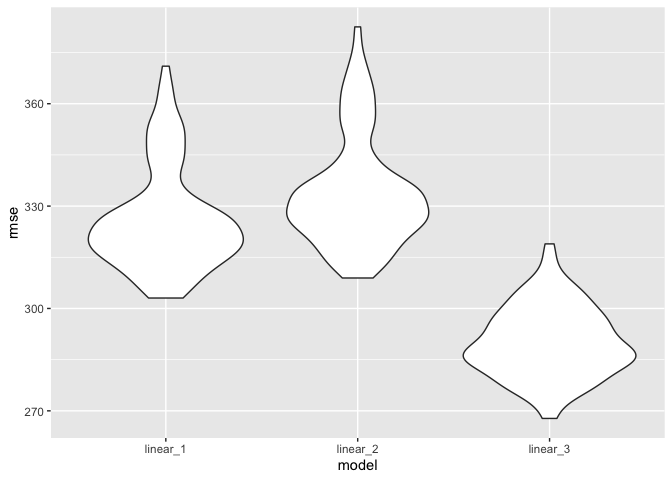
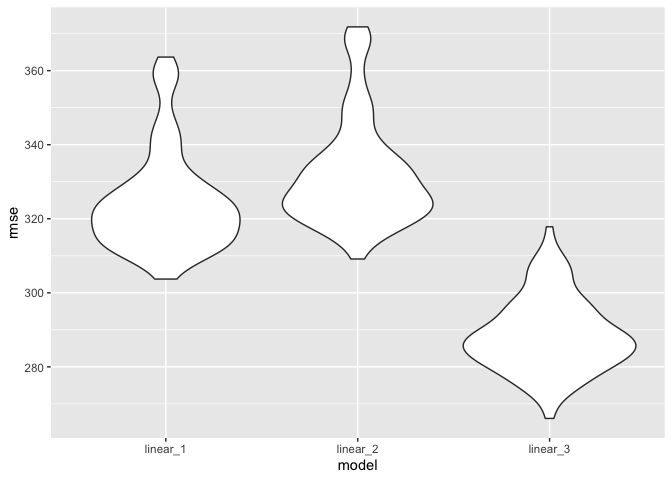
done

diff --git a/p8105_hw6_cx2227.md b/p8105_hw6_cx2227.md
@@ -7,16 +7,7 @@ Chuyue Xiang
 
 ``` r
 birthweight = read_csv("./data/birthweight.csv")
-```
 
-    ## Parsed with column specification:
-    ## cols(
-    ##   .default = col_double()
-    ## )
-
-    ## See spec(...) for full column specifications.
-
-``` r
 str(birthweight)
 ```
 
@@ -200,20 +191,14 @@ cv_birthweight %>%
 
 ![](p8105_hw6_cx2227_files/figure-gfm/unnamed-chunk-1-4.png)<!-- -->
 
-\`\`\`
-
-  - This model is built by selecting some factors I thought would be
-    attrbutng to the weight of the baby, for example: the length of the
-    baby, mother’s pre-pregnancy BMI, mother’s age at menarche, etc…
-
-  - However, through the chart, there is no clear interaction, so this
-    model proposed is not effective.
+  - from the voilin chart, the third model has the smallestt rmse which
+    will has the best prediction on the baby’s weight.
 
 ## Problem 2
 
-data import
-
 ``` r
+#data import
+
 weather_df = 
   rnoaa::meteo_pull_monitors(
     c("USW00094728"),
@@ -240,3 +225,74 @@ weather_df =
     ## file last updated:  2019-09-26 10:25:19
 
     ## file min/max dates: 1869-01-01 / 2019-09-30
+
+``` r
+weather_df %>% 
+  modelr::bootstrap(n = 5000) %>% 
+  mutate(
+    models = map(strap, ~lm(tmax ~ tmin, data = .x)),
+    results = map(models, broom::glance)) %>% 
+  select(-strap, -models) %>% 
+  unnest(results) %>% 
+  select(.id,r.squared) %>% 
+  ggplot(aes(x = r.squared)) + geom_density()
+```
+
+![](p8105_hw6_cx2227_files/figure-gfm/unnamed-chunk-2-1.png)<!-- -->
+
+``` r
+weather_df %>% 
+  modelr::bootstrap(n = 5000) %>% 
+  mutate(
+    models = map(strap, ~lm(tmax ~ tmin, data = .x)),
+    results = map(models, broom::tidy)) %>% 
+  select(-strap, -models) %>% 
+  unnest(results) %>% 
+  select(.id,term,estimate) %>% 
+  pivot_wider(names_from = term, values_from = estimate) %>% 
+  mutate(
+    log_beta0xbeta1 = log(`(Intercept)`*tmin, base = exp(1))) %>% 
+  ggplot(aes(x = log_beta0xbeta1)) + geom_density()
+```
+
+![](p8105_hw6_cx2227_files/figure-gfm/unnamed-chunk-2-2.png)<!-- -->
+
+``` r
+r_squared = 
+weather_df %>% 
+  modelr::bootstrap(n = 5000) %>% 
+  mutate(
+    models = map(strap, ~lm(tmax ~ tmin, data = .x)),
+    results = map(models, broom::glance)) %>% 
+  select(-strap, -models) %>% 
+  unnest(results) %>% 
+  select(.id,r.squared)
+  
+
+log = 
+  weather_df %>% 
+  modelr::bootstrap(n = 5000) %>% 
+  mutate(
+    models = map(strap, ~lm(tmax ~ tmin, data = .x)),
+    results = map(models, broom::tidy)) %>% 
+  select(-strap, -models) %>% 
+  unnest(results) %>% 
+  select(.id,term,estimate) %>% 
+  pivot_wider(names_from = term, values_from = estimate) %>% 
+  mutate(
+    log_beta0_beta1 = log(`(Intercept)`*tmin, base = exp(1)))
+
+# 95% Interval for r squared
+quantile(r_squared$r.squared, probs= c(0.025,0.975))
+```
+
+    ##      2.5%     97.5% 
+    ## 0.8941480 0.9270325
+
+``` r
+# 95% Interval for log(b0*b1)
+quantile(log$log_beta0_beta1, probs= c(0.025,0.975))
+```
+
+    ##     2.5%    97.5% 
+    ## 1.964836 2.058396
